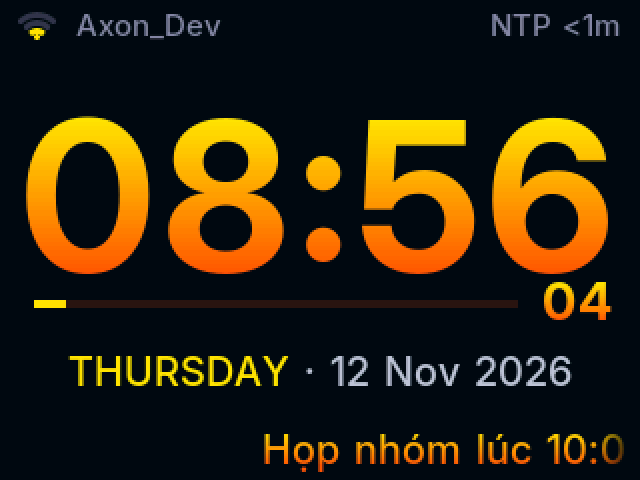
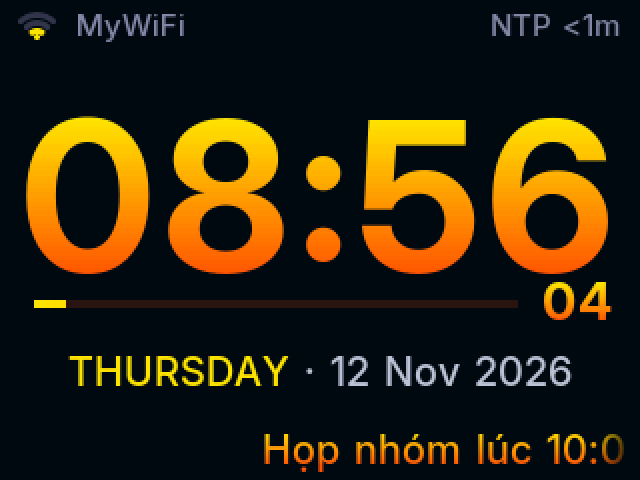
Docs: remove network names and personal text before going public
- README: no company network names or the board's MAC address.
- Clock screenshots: the status bar's network name is repainted as
  "MyWiFi" (same font, size and colour); the Change Wi-Fi screenshot too.
- Web screenshots regenerated from a mock with neutral data.

Changed region(s): [[0.125, 0.0312, 0.3438, 0.0938]]

diff --git a/README.md b/README.md
@@ -568,13 +568,13 @@ src/serial_console.*            serial commands (SET, TZ, WIFI, NTP, WEATHER, BA
   failure:
   `2` auth expired (the access point didn't answer), `15`/`202` wrong password,
   `201` network not found, `203` association rejected, `204` handshake timeout.
-  WPA2-Enterprise (802.1X, e.g. `Axon_Corp`) isn't supported. Run `WIFI PORTAL` to
+  WPA2-Enterprise (802.1X, common on corporate networks) isn't supported. Run `WIFI PORTAL` to
   re-enter credentials.
-- **Office Wi-Fi with many access points (e.g. `Axon_Open`):** connecting works, but some
+- **Office Wi-Fi with many access points:** connecting works, but some
   access points often ignore the ESP32's authentication (reason 2) even at −50 dBm, so a
   connection can take a few retries (~10–90 s). If it never connects, ask IT whether the
   network uses MAC allow-listing or client exclusion. The clock's Wi-Fi MAC is shown by
-  `esptool` at upload (e.g. `48:af:f3:70:57:a0`).
+  `esptool` at upload (e.g. `24:0a:c4:12:34:56`).
 - **Clock restarts a few seconds after joining Wi-Fi (`task_wdt: IDLE0`):** fixed in v0.12.
   A TLS handshake with Open-Meteo takes ~7 s on the ESP32, mostly one CPU-bound step
   (software ECDSA P-384 certificate checks). With the default 5 s task watchdog this reset
